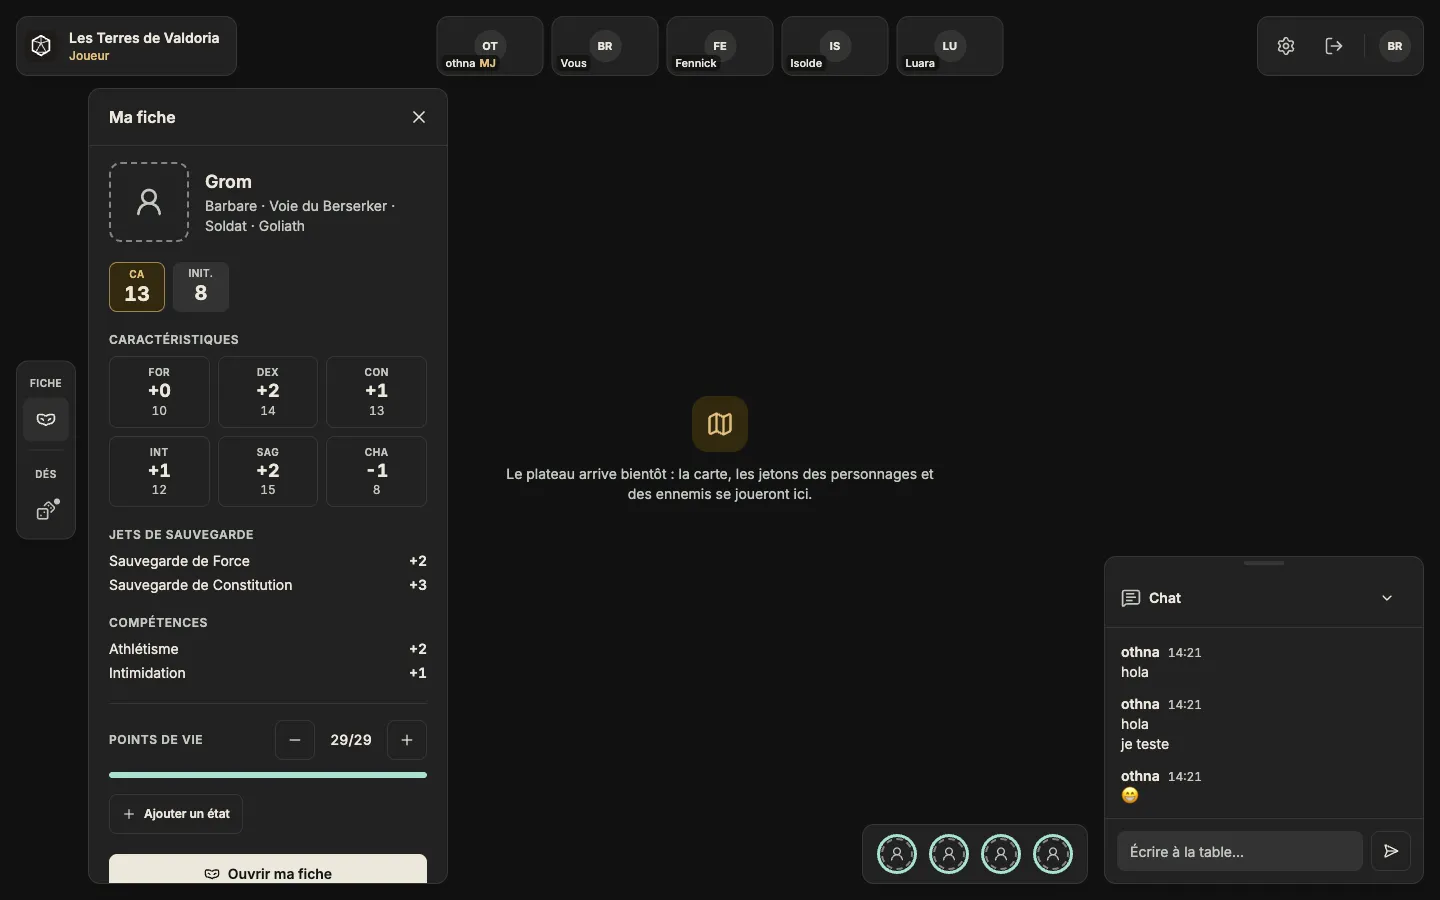
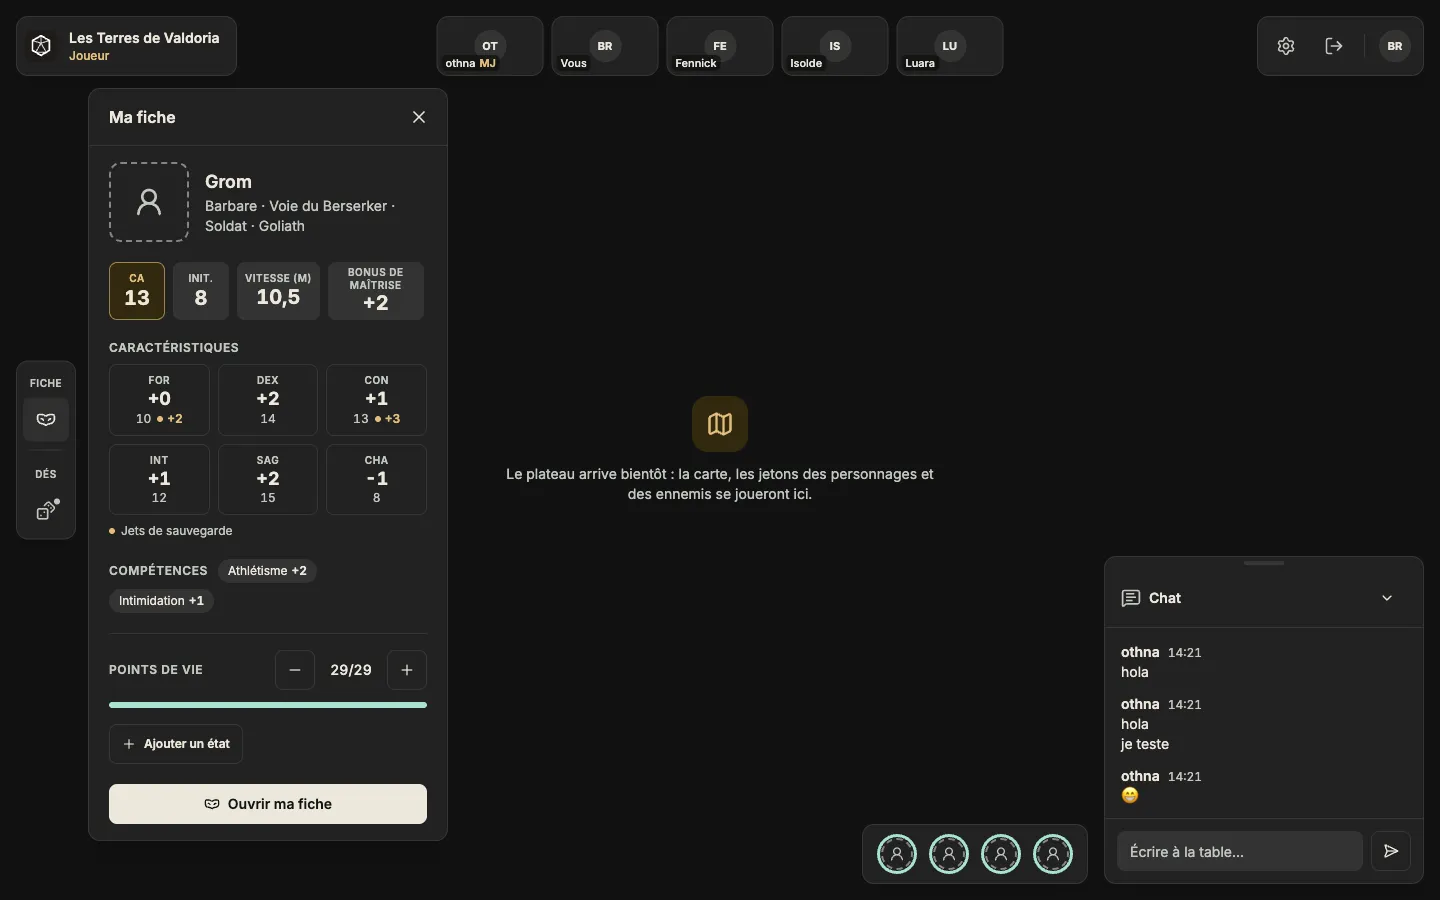
docs(game-room): note the compact panel of a player

diff --git a/CLAUDE.md b/CLAUDE.md
@@ -1065,7 +1065,7 @@ Fait dans `feature/p1-game-room-frame` (le cadre de la salle de jeu, maquette C 
   - **Trois niveaux à ne pas confondre** : la **bibliothèque** (le catalogue : bestiaire, objets, PNJ créés par le MJ ; la fiche complète, pour préparer), la **fiche d'un PNJ ou d'un ennemi de la table** (sa copie dans `characters`), et le **combattant en jeu** (un jeton : ses PV, ses états, son initiative, seulement ce qui sert pendant un combat ; chaque gobelin le sien). L'état d'un combattant vit avec le jeton du plateau, à décider avec Julien
   - **La barre des combattants** : un îlot **en bas, à gauche du chat** (contre le bord droit de 768 à 1023 px, où le chat n'est pas), 60 px de haut comme lui, **toujours là**, à la place des joueurs de la barre d'outils. Un portrait rond par combattant (l'avatar d'un joueur, les initiales d'une créature, son numéro « 2 » dans un coin), dans l'anneau de ses PV (jamais pour un joueur qui regarde une créature) ; les portraits défilent quand ils ne tiennent pas, le tour en cours ramené au milieu
   - **Déroulé** (« tour par tour » et non « combat », décision : un MJ peut vouloir des tours sans combat) : **hors du tour par tour**, les joueurs seuls, sans ordre, et « Lancer le tour par tour » pour le MJ ; **une question d'abord** (`game_rooms/_turn_start_dialog`) : demander un jet d'initiative à toute la table (l'ordre suivra les résultats), ou « Sans jet » (les joueurs font autrement ; l'ordre reste celui de la barre) ; **préparation** : le MJ place sa carte, ses ennemis et ses zones bloquantes, la table lance son initiative s'il l'a demandé (« Préparation · 2 joueurs en attente »), les créatures entrent dans la barre, **cachées aux joueurs** (un œil barré) tant que le MJ n'a pas appuyé sur **« Prêt »** (bouton `:attention`, à côté d'« Annuler ») ; le serveur lance pour un joueur qui ne l'a pas fait ; **tours** : l'ordre, « Tour N », contour doré sur celui dont c'est le tour, « Tour suivant », « Fin du tour par tour » **demandé d'abord** dans la fenêtre de confirmation (l'ordre et les tours effacés, PV et états gardés). **Le MJ réordonne**, pendant les tours et dès la préparation sans jet, en glissant un portrait à la souris ou au doigt (un glisser fait à la main, `pointerdown` : un portrait est un bouton, d'où un navigateur ne lance pas de glisser-déposer natif ; le relâcher n'ouvre pas sa fiche), ou Alt et une flèche dessus ; le nouvel ordre est **demandé d'abord** (« Valider le nouvel ordre ? »), l'ordre d'avant revient s'il refuse
-  - **Fiche rapide** (au clic sur un portrait, au-dessus de la barre ; **le MJ seulement** : depuis le 26 novembre, demande d'Anthony, le portrait d'un joueur ouvre chez lui **son panneau « Ma fiche »**, comme l'outil de la barre, en ligne aussi, et les autres portraits n'ouvrent rien ; ce panneau montre en plus sa CA, son initiative, ses six caractéristiques (modificateur, score), ses jets de sauvegarde et compétences cochés (les champs `bonus` cochés, par section du modèle, `own_proficiency_sections`), puis **la même carte de combat** que la fiche rapide, `game_rooms/_fighter_status` et `fighter_card_controller.js` (PV, états, emplacements, attaques ; ses − et +, ses états et ses emplacements cochables seulement avec `GameRoom.preview_features?`), qui prévient la barre par des événements, `fighter-card:hit-points` (l'anneau du portrait) et `fighter-card:open-conditions` (la fenêtre des états)) : le nom, **classe et espèce** dessous, la **CA dans une case dorée** et l'initiative à côté, les PV avec − et + et une barre, « Ajouter un état » qui ouvre **une fenêtre des états du modèle avec leur règle courte** (les états choisis en pastilles sous le bouton, retirés d'un clic), les **emplacements de sorts** d'un joueur par niveau, cochés quand ils sont utilisés, les attaques avec leurs dés et leurs dégâts, « Voir la fiche complète »
+  - **Fiche rapide** (au clic sur un portrait, au-dessus de la barre ; **le MJ seulement** : depuis le 26 novembre, demande d'Anthony, le portrait d'un joueur ouvre chez lui **son panneau « Ma fiche »**, comme l'outil de la barre, en ligne aussi, et les autres portraits n'ouvrent rien ; ce panneau montre en plus sa CA, son initiative et, à côté, vitesse, bonus de maîtrise, DD et attaque des sorts (`own_quick_stats`, `QUICK_STAT_FIELD_KEYS`, écrit pour D&D comme la CA en attendant que le modèle les déclare ; nom court : l'`abbreviation` du modèle, ajoutée à ces quatre champs de la fantasy), ses six caractéristiques (modificateur, score, et dans la case le jet de sauvegarde maîtrisé, point doré et bonus : la section qui a un bonus par caractéristique, `own_tile_bonus_section`), ses compétences cochées en pastilles (`own_ticked_chip_sections`), puis **la même carte de combat** que la fiche rapide, `game_rooms/_fighter_status` et `fighter_card_controller.js` (PV, états, emplacements, attaques ; ses − et +, ses états et ses emplacements cochables seulement avec `GameRoom.preview_features?`), qui prévient la barre par des événements, `fighter-card:hit-points` (l'anneau du portrait) et `fighter-card:open-conditions` (la fenêtre des états)) : le nom, **classe et espèce** dessous, la **CA dans une case dorée** et l'initiative à côté, les PV avec − et + et une barre, « Ajouter un état » qui ouvre **une fenêtre des états du modèle avec leur règle courte** (les états choisis en pastilles sous le bouton, retirés d'un clic), les **emplacements de sorts** d'un joueur par niveau, cochés quand ils sont utilisés, les attaques avec leurs dés et leurs dégâts, « Voir la fiche complète »
   - **Le modèle décide, l'interface garde sa forme** (décision) : la règle d'initiative (dés, caractéristique ajoutée ; sans règle, pas de jet), la case de la CA (un champ marqué par le modèle : « Protection » en horreur cosmique) et la ligne sous le nom seront **déclarées par le modèle** ; cette première version les écrit encore pour D&D (d20 + DEX, clés `armor_class`, `class`, `species`). PV, états, emplacements et attaques lisent déjà le modèle
   - **Annuler une action** (demande d'Anthony) : dans l'historique des actions (le fil de jeu), le MJ pourra revenir en arrière (un « Tour suivant » de trop, un jet de dés, des PV changés...) quand un joueur ou lui se trompe : chaque action sera enregistrée avec ce qu'elle a changé
   - À trancher : où voir les joueurs sous 768 px (la barre des combattants n'y est pas)

diff --git a/docs/salle-de-jeu.md b/docs/salle-de-jeu.md
@@ -68,9 +68,9 @@ Sur téléphone (simplifié, décision) : la barre d'outils en bas, un panneau p
 
 ### Ma fiche (joueur)
 Ouvert par l'outil « Ma fiche » **ou par son propre portrait** dans la barre des combattants (décision du 26 novembre : le joueur n'a plus de fiche rapide au-dessus de la barre ; un second clic sur le portrait ferme le panneau, le focus revient à ce qui l'a ouvert).
-- Avatar, nom, choix ; la **CA** dans sa case dorée et l'initiative.
-- **Caractéristiques** : six cases (abréviation, modificateur en grand, score avec le bonus de l'historique).
-- **Jets de sauvegarde et compétences maîtrisés** : seulement ceux qui sont cochés sur la fiche, rangés par section du modèle, chacun avec son bonus.
+- Avatar, nom, choix ; la **CA** dans sa case dorée, l'initiative, puis les valeurs qu'un joueur regarde en combat, dans des cases de même taille qui passent à la ligne : **vitesse, bonus de maîtrise**, et pour un lanceur **DD et attaque des sorts** (absents pour une classe sans sorts). Leur nom court est l'abréviation du modèle (« Vit. (m) », « Maîtrise », « DD sorts », « Att. sorts »), sinon leur libellé, sur deux lignes au plus.
+- **Caractéristiques** : six cases (abréviation, modificateur en grand, score avec le bonus de l'historique). Un **jet de sauvegarde maîtrisé** s'affiche dans la case de sa caractéristique, à côté du score : un point doré et son bonus (« 14 ● +4 »), avec une légende dessous (« ● Jets de sauvegarde »). C'est la section du modèle qui a un bonus par caractéristique.
+- **Compétences maîtrisées** en pastilles sur une ligne qui passe à la ligne (« Perspicacité +4 »), seulement celles cochées sur la fiche, par section du modèle.
 - **Combat**, la même carte que la fiche rapide du MJ (`game_rooms/_fighter_status`, `fighter_card_controller.js`) : PV avec − et + (l'anneau du portrait suit), « Ajouter un état », emplacements de sorts, attaques.
 - « Ouvrir ma fiche » ouvre la fiche complète dans une fenêtre.
 
